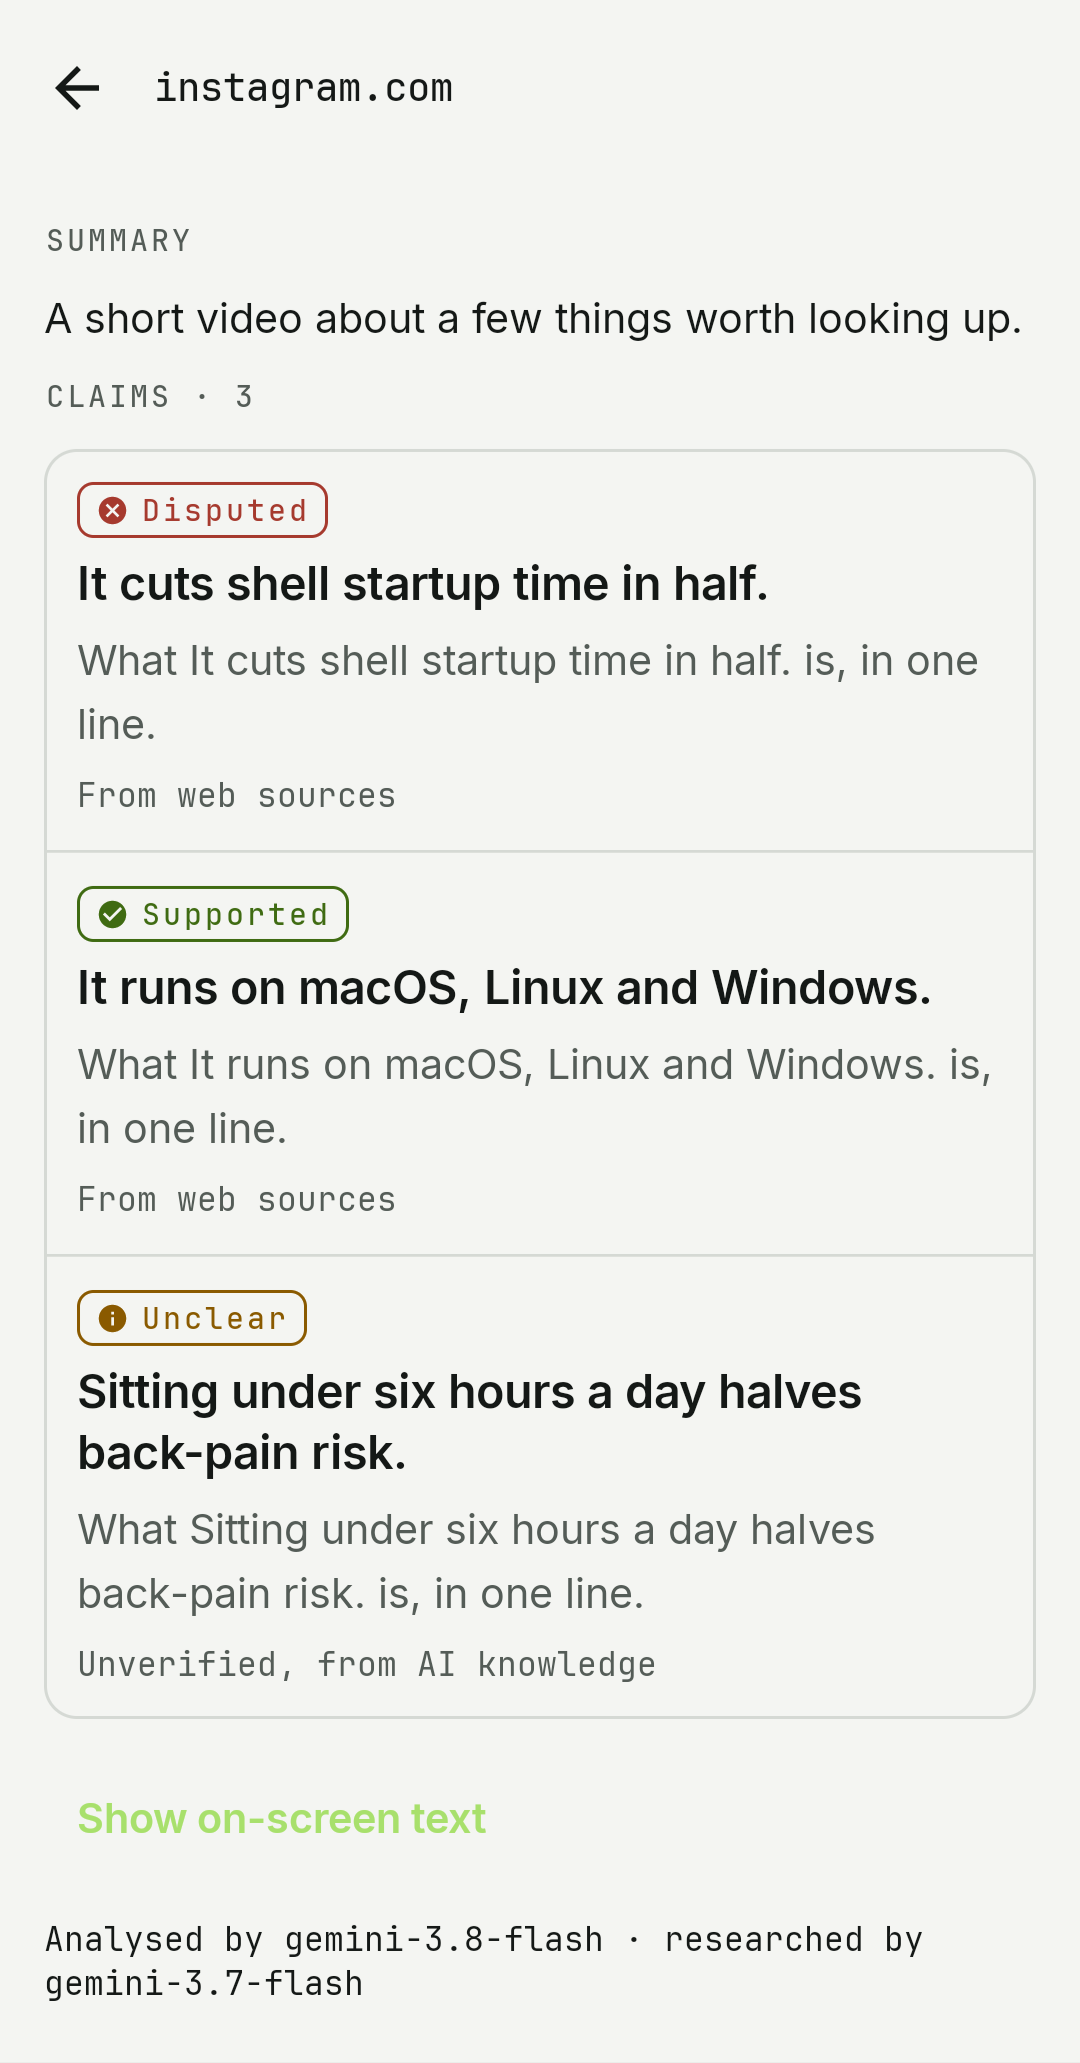
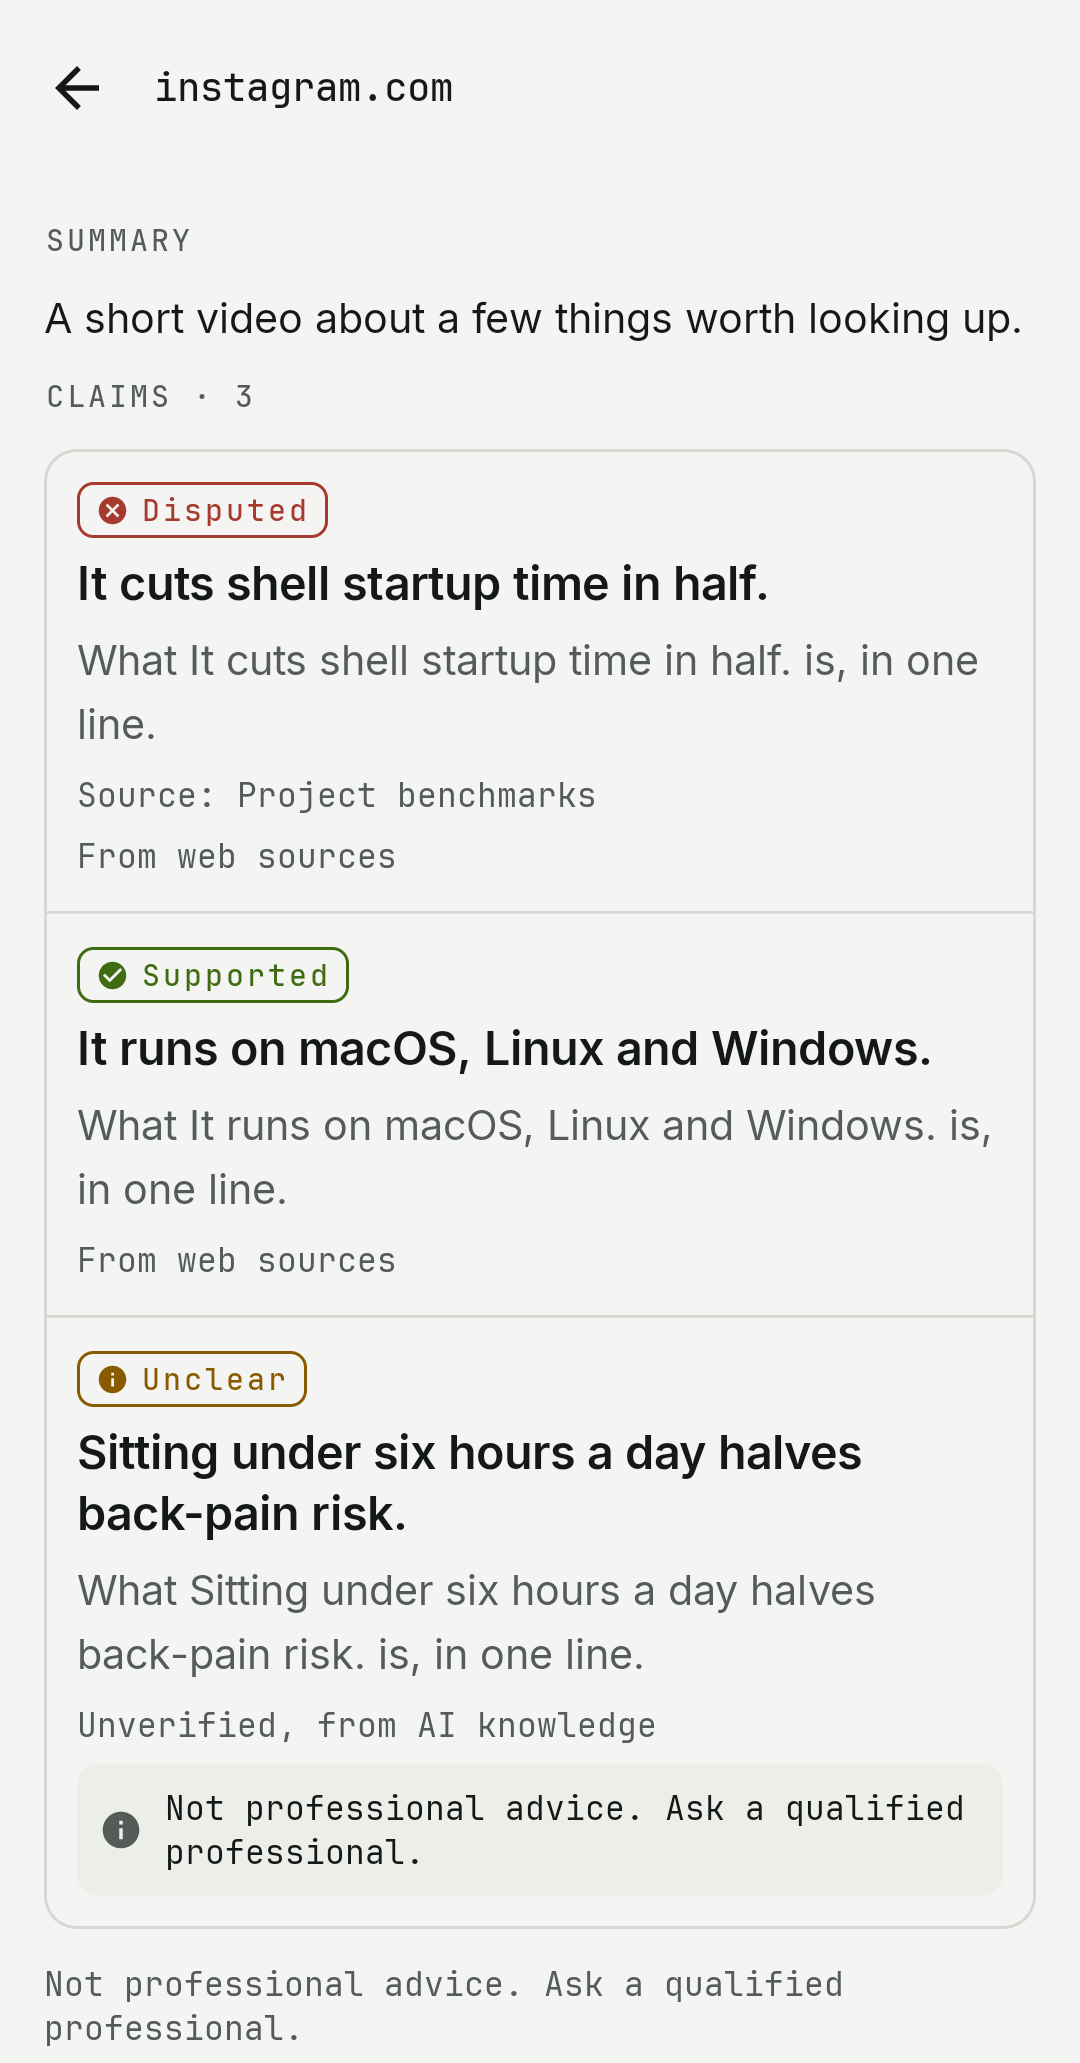
feat(design): settings and sign-in in the new theme; docs and screenshots for D24 follow-up

diff --git a/app/src/main/kotlin/dev/wolzard/recon/feature/settings/SettingsScreen.kt b/app/src/main/kotlin/dev/wolzard/recon/feature/settings/SettingsScreen.kt
@@ -1,6 +1,10 @@
 package dev.wolzard.recon.feature.settings
 
+import androidx.compose.foundation.border
 import androidx.compose.foundation.layout.Arrangement
+import androidx.compose.foundation.layout.ColumnScope
+import androidx.compose.ui.text.font.FontWeight
+import dev.wolzard.recon.designsystem.Mono
 import androidx.compose.foundation.layout.Column
 import androidx.compose.foundation.layout.Row
 import androidx.compose.foundation.layout.fillMaxSize
@@ -28,58 +32,80 @@ import dev.wolzard.recon.data.update.UpdateResult
 import dev.wolzard.recon.designsystem.UpdateBanner
 import dev.wolzard.recon.core.copy.SetupCopy
 
+/** Mono section label over a hairline group, as in the design (ACCOUNT, UPDATES, ABOUT). */
+@Composable
+private fun Group(label: String, content: @Composable ColumnScope.() -> Unit) {
+    Column(verticalArrangement = Arrangement.spacedBy(8.dp)) {
+        Text(label, color = MaterialTheme.colorScheme.onSurfaceVariant, style = MaterialTheme.typography.labelSmall)
+        Column(
+            Modifier.fillMaxWidth().border(1.dp, MaterialTheme.colorScheme.outlineVariant, MaterialTheme.shapes.medium).padding(16.dp),
+            verticalArrangement = Arrangement.spacedBy(12.dp), content = content,
+        )
+    }
+}
+
 @Composable
 fun SettingsScreen(state: SettingsState, onIntent: (SettingsIntent) -> Unit) {
     var token by remember { mutableStateOf("") }
+    val muted = MaterialTheme.colorScheme.onSurfaceVariant
     Column(
-        Modifier.fillMaxSize().verticalScroll(rememberScrollState()).padding(20.dp),
-        verticalArrangement = Arrangement.spacedBy(12.dp),
+        Modifier.fillMaxSize().verticalScroll(rememberScrollState()).padding(16.dp),
+        verticalArrangement = Arrangement.spacedBy(20.dp),
     ) {
         Text("Settings", style = MaterialTheme.typography.titleLarge)
 
-        Text("Gemini account", color = MaterialTheme.colorScheme.onSurfaceVariant, style = MaterialTheme.typography.labelSmall)
-        Text(if (state.signedIn) "Signed in (stored encrypted on this phone)." else "Not signed in.")
-        Row(horizontalArrangement = Arrangement.spacedBy(8.dp)) {
-            Button(shape = MaterialTheme.shapes.small, onClick = { onIntent(SettingsIntent.SignIn) }) { Text(if (state.signedIn) "Sign in again" else "Sign in") }
-            if (state.signedIn) OutlinedButton(shape = MaterialTheme.shapes.small, onClick = { onIntent(SettingsIntent.SignOut) }) { Text("Sign out") }
-        }
-        Text(SetupCopy.ACCOUNT_RISK, color = MaterialTheme.colorScheme.onSurfaceVariant, style = MaterialTheme.typography.bodyMedium)
+        (state.update as? UpdateResult.Newer)?.let { UpdateBanner(it.info, onOpen = { url -> onIntent(SettingsIntent.OpenUpdate(url)) }, onDismiss = null) }
 
-        HorizontalDivider(color = MaterialTheme.colorScheme.outlineVariant)
-        Text("GitHub token (optional)", color = MaterialTheme.colorScheme.onSurfaceVariant, style = MaterialTheme.typography.labelSmall)
-        Text("Raises GitHub's lookup limit. A token with no scopes is enough.", color = MaterialTheme.colorScheme.onSurfaceVariant, style = MaterialTheme.typography.bodyMedium)
-        OutlinedTextField(
-            value = token, onValueChange = { token = it }, singleLine = true,
-            visualTransformation = PasswordVisualTransformation(),
-            label = { Text(if (state.hasGitHubToken) "Token saved; enter a new one to replace" else "Token") },
-            modifier = Modifier.fillMaxWidth(),
-        )
-        Row(horizontalArrangement = Arrangement.spacedBy(8.dp)) {
-            Button(shape = MaterialTheme.shapes.small, onClick = { onIntent(SettingsIntent.SaveGitHubToken(token)); token = "" }, enabled = token.isNotBlank()) { Text("Save token") }
-            if (state.hasGitHubToken) OutlinedButton(shape = MaterialTheme.shapes.small, onClick = { onIntent(SettingsIntent.SaveGitHubToken(null)) }) { Text("Remove token") }
+        Group("GEMINI ACCOUNT") {
+            Text(if (state.signedIn) "Signed in (stored encrypted on this phone)." else "Not signed in.")
+            Row(horizontalArrangement = Arrangement.spacedBy(8.dp)) {
+                Button(shape = MaterialTheme.shapes.small, onClick = { onIntent(SettingsIntent.SignIn) }) { Text(if (state.signedIn) "Sign in again" else "Sign in") }
+                if (state.signedIn) OutlinedButton(shape = MaterialTheme.shapes.small, onClick = { onIntent(SettingsIntent.SignOut) }) { Text("Sign out") }
+            }
+            Text(SetupCopy.ACCOUNT_RISK, color = muted, style = MaterialTheme.typography.bodyMedium)
         }
 
-        HorizontalDivider(color = MaterialTheme.colorScheme.outlineVariant)
-        Text("Privacy", color = MaterialTheme.colorScheme.onSurfaceVariant, style = MaterialTheme.typography.labelSmall)
-        Text(
-            "Videos, or frames and audio, go to Gemini with your Google account, in temporary chats. Names of things found go to " +
-                "GitHub and Wikipedia. Your history and sign-in stay on this phone. ${SetupCopy.DATA_NOTE}",
-            color = MaterialTheme.colorScheme.onSurfaceVariant, style = MaterialTheme.typography.bodyMedium,
-        )
+        Group("GITHUB TOKEN (OPTIONAL)") {
+            Text("Raises GitHub's lookup limit. A token with no scopes is enough.", color = muted, style = MaterialTheme.typography.bodyMedium)
+            OutlinedTextField(
+                value = token, onValueChange = { token = it }, singleLine = true,
+                visualTransformation = PasswordVisualTransformation(), shape = MaterialTheme.shapes.small,
+                label = { Text(if (state.hasGitHubToken) "Token saved; enter a new one to replace" else "Token") },
+                modifier = Modifier.fillMaxWidth(),
+            )
+            Row(horizontalArrangement = Arrangement.spacedBy(8.dp)) {
+                Button(shape = MaterialTheme.shapes.small, onClick = { onIntent(SettingsIntent.SaveGitHubToken(token)); token = "" }, enabled = token.isNotBlank()) { Text("Save token") }
+                if (state.hasGitHubToken) OutlinedButton(shape = MaterialTheme.shapes.small, onClick = { onIntent(SettingsIntent.SaveGitHubToken(null)) }) { Text("Remove token") }
+            }
+        }
 
-        HorizontalDivider(color = MaterialTheme.colorScheme.outlineVariant)
-        Text("About", color = MaterialTheme.colorScheme.onSurfaceVariant, style = MaterialTheme.typography.labelSmall)
-        Text("Recon ${BuildConfig.VERSION_NAME}")
-        OutlinedButton(shape = MaterialTheme.shapes.small, onClick = { onIntent(SettingsIntent.CheckForUpdates) }, enabled = !state.checkingUpdate) {
-            Text(if (state.checkingUpdate) "Checking…" else "Check for updates")
+        Group("PRIVACY") {
+            Text(
+                "Videos, or frames and audio, go to Gemini with your Google account, in temporary chats. Names of things found go to " +
+                    "GitHub and Wikipedia. Your history and sign-in stay on this phone. ${SetupCopy.DATA_NOTE}",
+                color = muted, style = MaterialTheme.typography.bodyMedium,
+            )
         }
-        when (val u = state.update) {
-            is UpdateResult.Newer -> UpdateBanner(u.info, onOpen = { onIntent(SettingsIntent.OpenUpdate(it)) }, onDismiss = null)
-            UpdateResult.UpToDate -> Text("Up to date")
-            UpdateResult.Failed -> Text("Couldn't check. Try again later.")
-            null -> Unit
+
+        Group("UPDATES") {
+            OutlinedButton(shape = MaterialTheme.shapes.small, onClick = { onIntent(SettingsIntent.CheckForUpdates) }, enabled = !state.checkingUpdate) {
+                Text(if (state.checkingUpdate) "Checking…" else "Check for updates")
+            }
+            when (state.update) {
+                UpdateResult.UpToDate -> Text("Up to date")
+                UpdateResult.Failed -> Text("Couldn't check. Try again later.")
+                else -> Unit
+            }
         }
-        TextButton(onClick = { onIntent(SettingsIntent.OpenReleases) }) { Text("Releases on GitHub") }
-        TextButton(onClick = { onIntent(SettingsIntent.OpenNotice) }) { Text("Personal-use notice") }
+
+        Group("ABOUT") {
+            Row(Modifier.fillMaxWidth(), horizontalArrangement = Arrangement.SpaceBetween) {
+                Text("Version", color = muted)
+                Text("Recon ${BuildConfig.VERSION_NAME}", style = MaterialTheme.typography.bodyMedium.copy(fontFamily = Mono, fontWeight = FontWeight.Medium))
+            }
+            HorizontalDivider(color = MaterialTheme.colorScheme.outlineVariant)
+            TextButton(onClick = { onIntent(SettingsIntent.OpenReleases) }) { Text("Releases on GitHub") }
+            TextButton(onClick = { onIntent(SettingsIntent.OpenNotice) }) { Text("Personal-use notice") }
+        }
     }
 }

diff --git a/app/src/androidTest/kotlin/dev/wolzard/recon/ui/ScreenshotsTest.kt b/app/src/androidTest/kotlin/dev/wolzard/recon/ui/ScreenshotsTest.kt
@@ -5,6 +5,7 @@ import androidx.compose.runtime.Composable
 import androidx.compose.ui.graphics.asAndroidBitmap
 import androidx.compose.ui.test.captureToImage
 import androidx.compose.ui.test.junit4.createComposeRule
+import androidx.compose.ui.test.onNodeWithTag
 import androidx.compose.ui.test.onNodeWithText
 import androidx.compose.ui.test.onRoot
 import androidx.compose.ui.test.performScrollTo
@@ -54,11 +55,12 @@ class ScreenshotsTest {
     private val suffix = InstrumentationRegistry.getArguments().getString("suffix", "")
     private val dir = File(InstrumentationRegistry.getInstrumentation().targetContext.getExternalFilesDir(null), "screenshots").apply { mkdirs() }
 
-    private fun shot(name: String, scrollTo: String? = null, content: @Composable () -> Unit) {
+    private fun shot(name: String, scrollTo: String? = null, scrollToTag: String? = null, content: @Composable () -> Unit) {
         // The real app gets its background from the Scaffold in ReconNavHost; the harness needs its own.
         compose.setContent { ReconTheme { androidx.compose.material3.Surface(color = androidx.compose.material3.MaterialTheme.colorScheme.background) { content() } } }
         compose.waitForIdle()
         scrollTo?.let { compose.onNodeWithText(it).performScrollTo() }
+        scrollToTag?.let { compose.onNodeWithTag(it).performScrollTo() }
         val bmp = compose.onRoot().captureToImage().asAndroidBitmap()
         File(dir, "$name$suffix.png").outputStream().use { bmp.compress(Bitmap.CompressFormat.PNG, 100, it) }
     }
@@ -145,13 +147,17 @@ class ScreenshotsTest {
         JobScreen(job(JobState.FAILED).copy(failure = dev.wolzard.recon.core.model.FailureReason.VIDEO_UNREADABLE), null, now) {}
     }
 
-    @Test fun jobClaims() = shot("job_claims", scrollTo = "CLAIMS · 3") {
+    @Test fun jobClaims() = shot("job_claims", scrollToTag = "advice_footer") {
+        fun claim(name: String, v: Verdict, basis: Basis, d: dev.wolzard.recon.core.model.ClaimDomain?) =
+            finding(EntityType.CLAIM, name, v, basis).let { it.copy(entity = it.entity.copy(domain = d), source = if (v == Verdict.DISPUTED) "Project benchmarks" else null) }
         JobScreen(job(JobState.DONE), result(listOf(
-            finding(EntityType.CLAIM, "It cuts shell startup time in half.", Verdict.DISPUTED, Basis.WEB_SOURCES),
-            finding(EntityType.CLAIM, "It runs on macOS, Linux and Windows.", Verdict.SUPPORTED, Basis.WEB_SOURCES),
-            finding(EntityType.CLAIM, "Sitting under six hours a day halves back-pain risk.", Verdict.UNCLEAR, Basis.AI_KNOWLEDGE),
+            claim("It cuts shell startup time in half.", Verdict.DISPUTED, Basis.WEB_SOURCES, dev.wolzard.recon.core.model.ClaimDomain.OTHER),
+            claim("It runs on macOS, Linux and Windows.", Verdict.SUPPORTED, Basis.WEB_SOURCES, dev.wolzard.recon.core.model.ClaimDomain.OTHER),
+            claim("Sitting under six hours a day halves back-pain risk.", Verdict.UNCLEAR, Basis.AI_KNOWLEDGE, dev.wolzard.recon.core.model.ClaimDomain.HEALTH),
         )), now) {}
     }
+
+    @Test fun quotaWaitingNoTime() = shot("job_quota_waiting_no_time") { JobScreen(job(JobState.WAITING_QUOTA), null, now) {} }
 
     @Test fun homeUpdate() = shot("home_update") {
         val info = dev.wolzard.recon.data.update.UpdateInfo("0.2.0", "https://github.com/w0lzard/recon/releases/download/v0.2.0/a.apk", "https://github.com/w0lzard/recon/releases/tag/v0.2.0")

diff --git a/app/src/main/kotlin/dev/wolzard/recon/feature/signin/SignInScreen.kt b/app/src/main/kotlin/dev/wolzard/recon/feature/signin/SignInScreen.kt
@@ -19,6 +19,9 @@ import androidx.compose.foundation.layout.size
 import androidx.compose.foundation.rememberScrollState
 import androidx.compose.foundation.verticalScroll
 import androidx.compose.material3.Button
+import androidx.compose.material3.Icon
+import androidx.compose.ui.Alignment
+import dev.wolzard.recon.designsystem.StatusIcons
 import androidx.compose.material3.CircularProgressIndicator
 import androidx.compose.material3.MaterialTheme
 import androidx.compose.material3.OutlinedTextField
@@ -51,7 +54,10 @@ fun SignInScreen(state: SignInState, onIntent: (SignInIntent) -> Unit) {
             Modifier.fillMaxWidth().border(1.dp, warn, MaterialTheme.shapes.medium).padding(12.dp),
             verticalArrangement = Arrangement.spacedBy(2.dp),
         ) {
-            Text("ACCOUNT RISK", color = warn, style = MaterialTheme.typography.labelSmall)
+            Row(verticalAlignment = Alignment.CenterVertically, horizontalArrangement = Arrangement.spacedBy(6.dp)) {
+                Icon(StatusIcons.Info, contentDescription = null, Modifier.size(14.dp), tint = warn)
+                Text("ACCOUNT RISK", color = warn, style = MaterialTheme.typography.labelSmall)
+            }
             Text(SetupCopy.ACCOUNT_RISK, style = MaterialTheme.typography.bodyMedium)
         }
         Row(horizontalArrangement = Arrangement.spacedBy(12.dp)) {

diff --git a/docs/plan.md b/docs/plan.md
@@ -38,6 +38,11 @@
      - ≤ 480p h264 downloads, with 720p only as a user-triggered small-text fallback.
 - **2026-10-11, backend swap (owner):** the official Gemini API with BYOK is replaced by the Gemini web backend (D22), reversing D4 and D14. Every user signs in with their own Google account and carries the account risk; the app warns about it on the sign-in screen, in Settings and in the personal-use notice (version 2). Removed: key setup, model discovery/ranking (D11), per-model quota tracking and Jobs-left (D9 counting), grounding capability test (D20, web researcher off until web citations are parsed).
   - Verified 2026-10-12: JVM tests 203/203 (8 new `GeminiWebClientTest` against MockWebServer fixtures, 3 `SignInViewModelTest`). `scripts/connected-tests.sh` on `recon_gate_api26`: 18 run, 17 passed; `YtDlpFetcherLargeTest` failed twice with YouTube's "Sign in to confirm you're not a bot" (HTTP 429) for this IP. That is external, but it now matters more: YouTube links are downloaded instead of being passed to the API. **Not yet verified: a live job through gemini.google.com** (needs the owner's sign-in), the WebView sign-in itself (Google may refuse embedded sign-in, so the paste path exists), and R8 on the release build.
+- **2026-10-13, D24 follow-up (owner): sensitive claims, honest waiting screen, sign-in/settings pass.**
+  - **Claim domain.** The analyse schema gains an optional per-entity `domain` (`health`, `legal`, `financial`, `other`; claims only), parsed into `Entity.domain` (`ClaimDomain`; an unknown word becomes `other`, a missing one stays null, non-claims always null). Research items gain a `source` field (the one source the verdict rests on, by name; URLs stripped; `Finding.source`). `ResultParser` rule: a claim in health/legal/financial without a named source is `UNCLEAR`, whatever verdict the model gave; knowledge answers never carry a source, so they were already Unclear. The claims list shows a "Not professional advice. Ask a qualified professional." line under each such claim and one footer under the list; a named source is shown as "Source: …". A claim with domain `other` or none is untouched. Limit: the model must tag the domain itself; an untagged health claim gets no advice line.
+  - **Waiting screen.** A time is shown only when the job has `retryAtEpochMs` (the backend's own figure). Without it the screen says "Try again later" (sentence and reset card) with no clock, no "~", and no "next daily reset"; the failed-quota message likewise says "Try again later." instead of "later today". In the shipped app the web backend reports no reset time (`quotaWaitUntil = { null }`), so in practice this screen never shows a time.
+  - **Sign-in and settings.** Settings is now hairline-bordered groups with mono labels (GEMINI ACCOUNT, GITHUB TOKEN, PRIVACY, UPDATES, ABOUT), the update card on top when one is found, a mono version row; sign-in's account-risk box has a warning icon. Not matched to the design: the signed-in e-mail/avatar row, last-checked time and the signing-certificate row (no data in the app for them); sign-in keeps its inline WebView where the design has a "Continue with Google" button (behaviour left as is).
+  - Verified: JVM tests **281/281** (`:core:test` 126, `:app:testDebugUnitTest` 155; +14: 5 parser domain tests, 3 prompt tests, 6 UI tests for the advice line, footer, source, and the waiting screen with no clock). `scripts/connected-tests.sh`: **32 run, 32 passed**, 0 failures/errors/skipped. Screenshots in `docs/screenshots/design/`: `sign_in_*` and `settings_*` (dark default and 360×640; `settings_light_*` light), `job_claims_*` (advice line and footer, scrolled to the footer; light too), `job_quota_waiting_no_time_*`.
 - **2026-10-13, design pass (owner, D24):** the Claude Design export is applied to the Compose UI on branch `design-pass`; see D24 for what changed and what did not.
   - Verified 2026-10-13 (emulator `recon30`, API 30, debug): JVM tests **267/267** (`:core:test` 118, `:app:testDebugUnitTest` 149, 0 failed; no test, tag, content description or string was edited for the restyle). `scripts/connected-tests.sh`: **31 run, 31 passed**, 0 failures/errors/skipped (27 + `ContextKeyboardTest` + 3 new screenshot shots). `ContextKeyboardTest` opens the keyboard on Add context at 360×640 dp and asserts the field, Start and Skip can be scrolled above it; with `imePadding()` removed it fails ("bottom 1725 must be above the keyboard top 1029"), so it does catch clipping. Screenshots: `docs/screenshots/design/` (`<screen>_default.png` 1080×2340 @ 440 dpi and `<screen>_360x640.png`, dark; `*_light_*` for Home, Result, claims, answer and candidates).
   - **APK size (release, signed, R8):** arm64-v8a 19,807,373 → 20,002,341 B (+194,968 B, +0.98%); armeabi-v7a 18,285,481 → 18,480,449 B (+194,968 B, +1.07%). Fonts are 369 KB raw; the rest of the APK's compression brings the delta down to ~190 KB.
@@ -491,7 +496,7 @@ Rules:
 | `UNSUPPORTED_LINK` | no URL in share | "Recon couldn't find a link in what you shared." | — |
 | `DOWNLOAD_FAILED` | yt-dlp error / private / login needed | "Couldn't download this video (it may be private or need login)." | "Share the video file instead" (help sheet), Retry |
 | `VIDEO_UNREADABLE` | sampler can't decode | "This video file couldn't be read." | Share a different file |
-| `QUOTA_EXCEEDED` | Gemini 429 during analysis on both models (rare: normally the job waits in `WAITING_QUOTA` instead) | "Your free Gemini quota is used up. Try again after HH:MM." (time from `RetryInfo`; "later today" if unknown) | Retry (enabled after `retryAt`) |
+| `QUOTA_EXCEEDED` | Gemini 429 during analysis on both models (rare: normally the job waits in `WAITING_QUOTA` instead) | "Your free Gemini quota is used up. Try again after HH:MM." (time from `RetryInfo`; "Try again later." if unknown) | Retry (enabled after `retryAt`) |
 | `API_KEY_MISSING` | no key | "Set up your free Gemini key to start." | Set up key |
 | `API_KEY_INVALID` | 400 API_KEY_INVALID / 403 | "Your Gemini key isn't working." | Set up key |
 | `REGION_UNSUPPORTED` | 400 FAILED_PRECONDITION "User location is not supported" | "Google's free Gemini API isn't available in your region." | Learn more (README section) |
